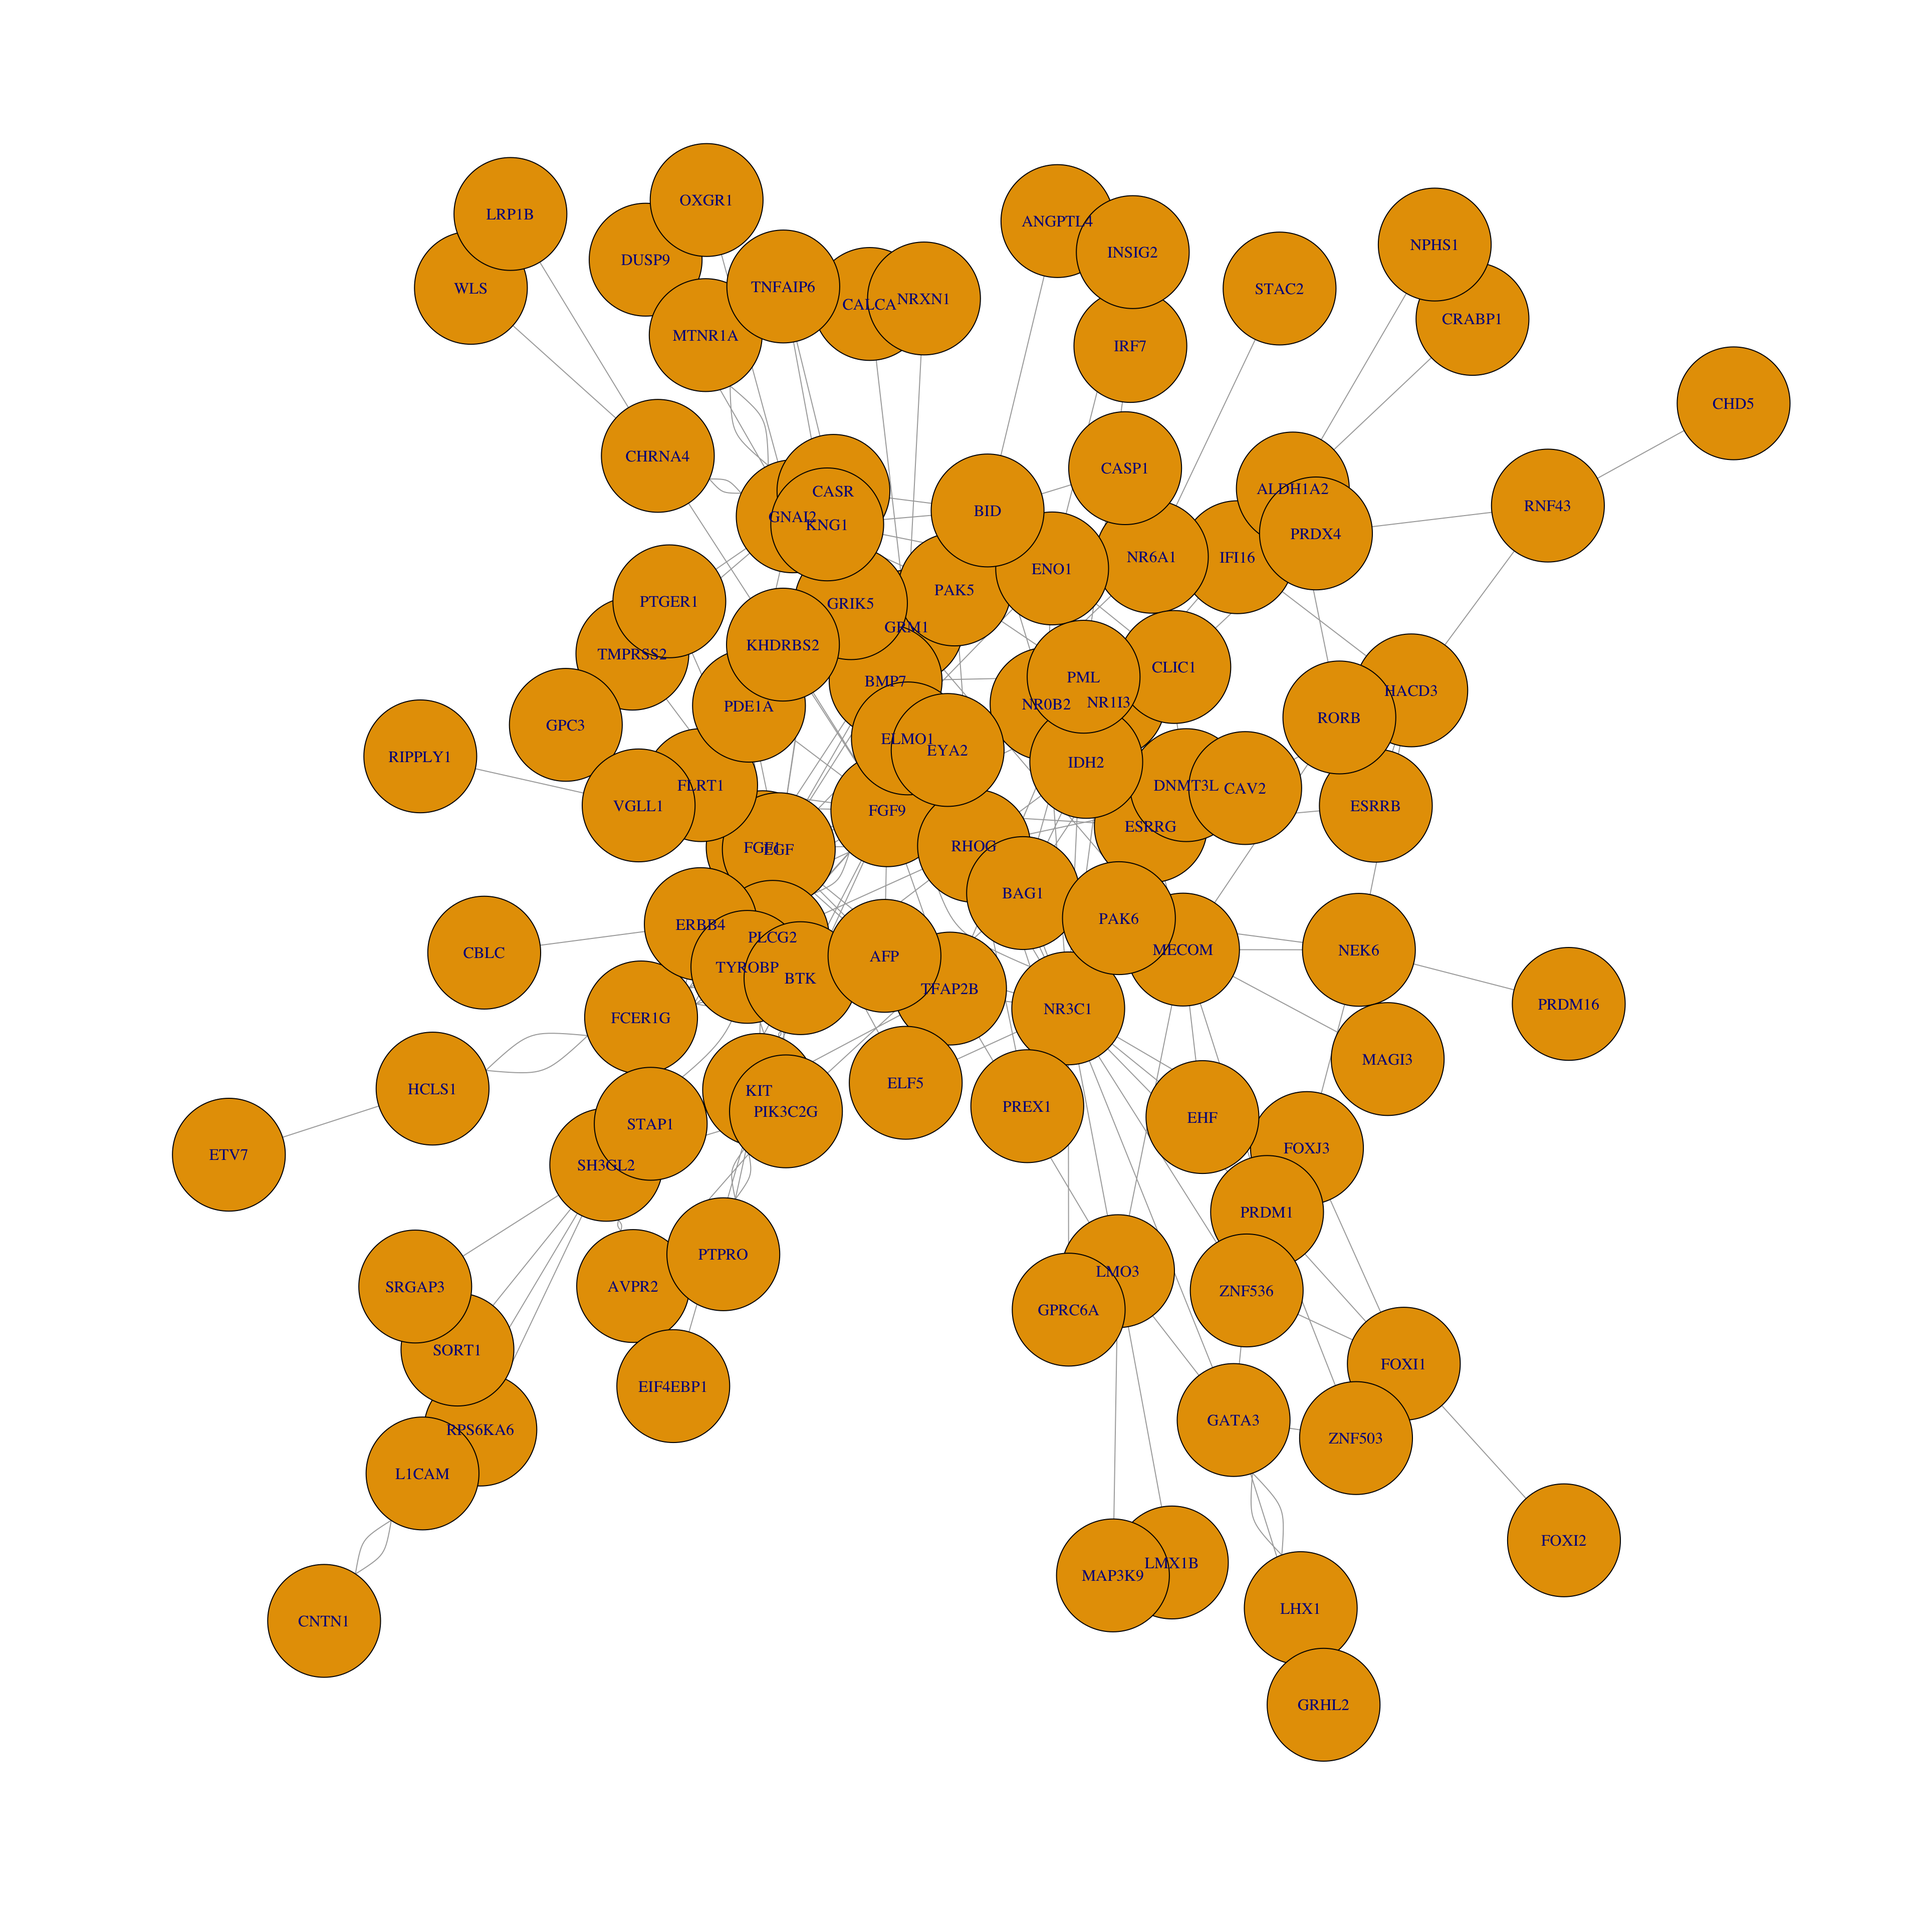
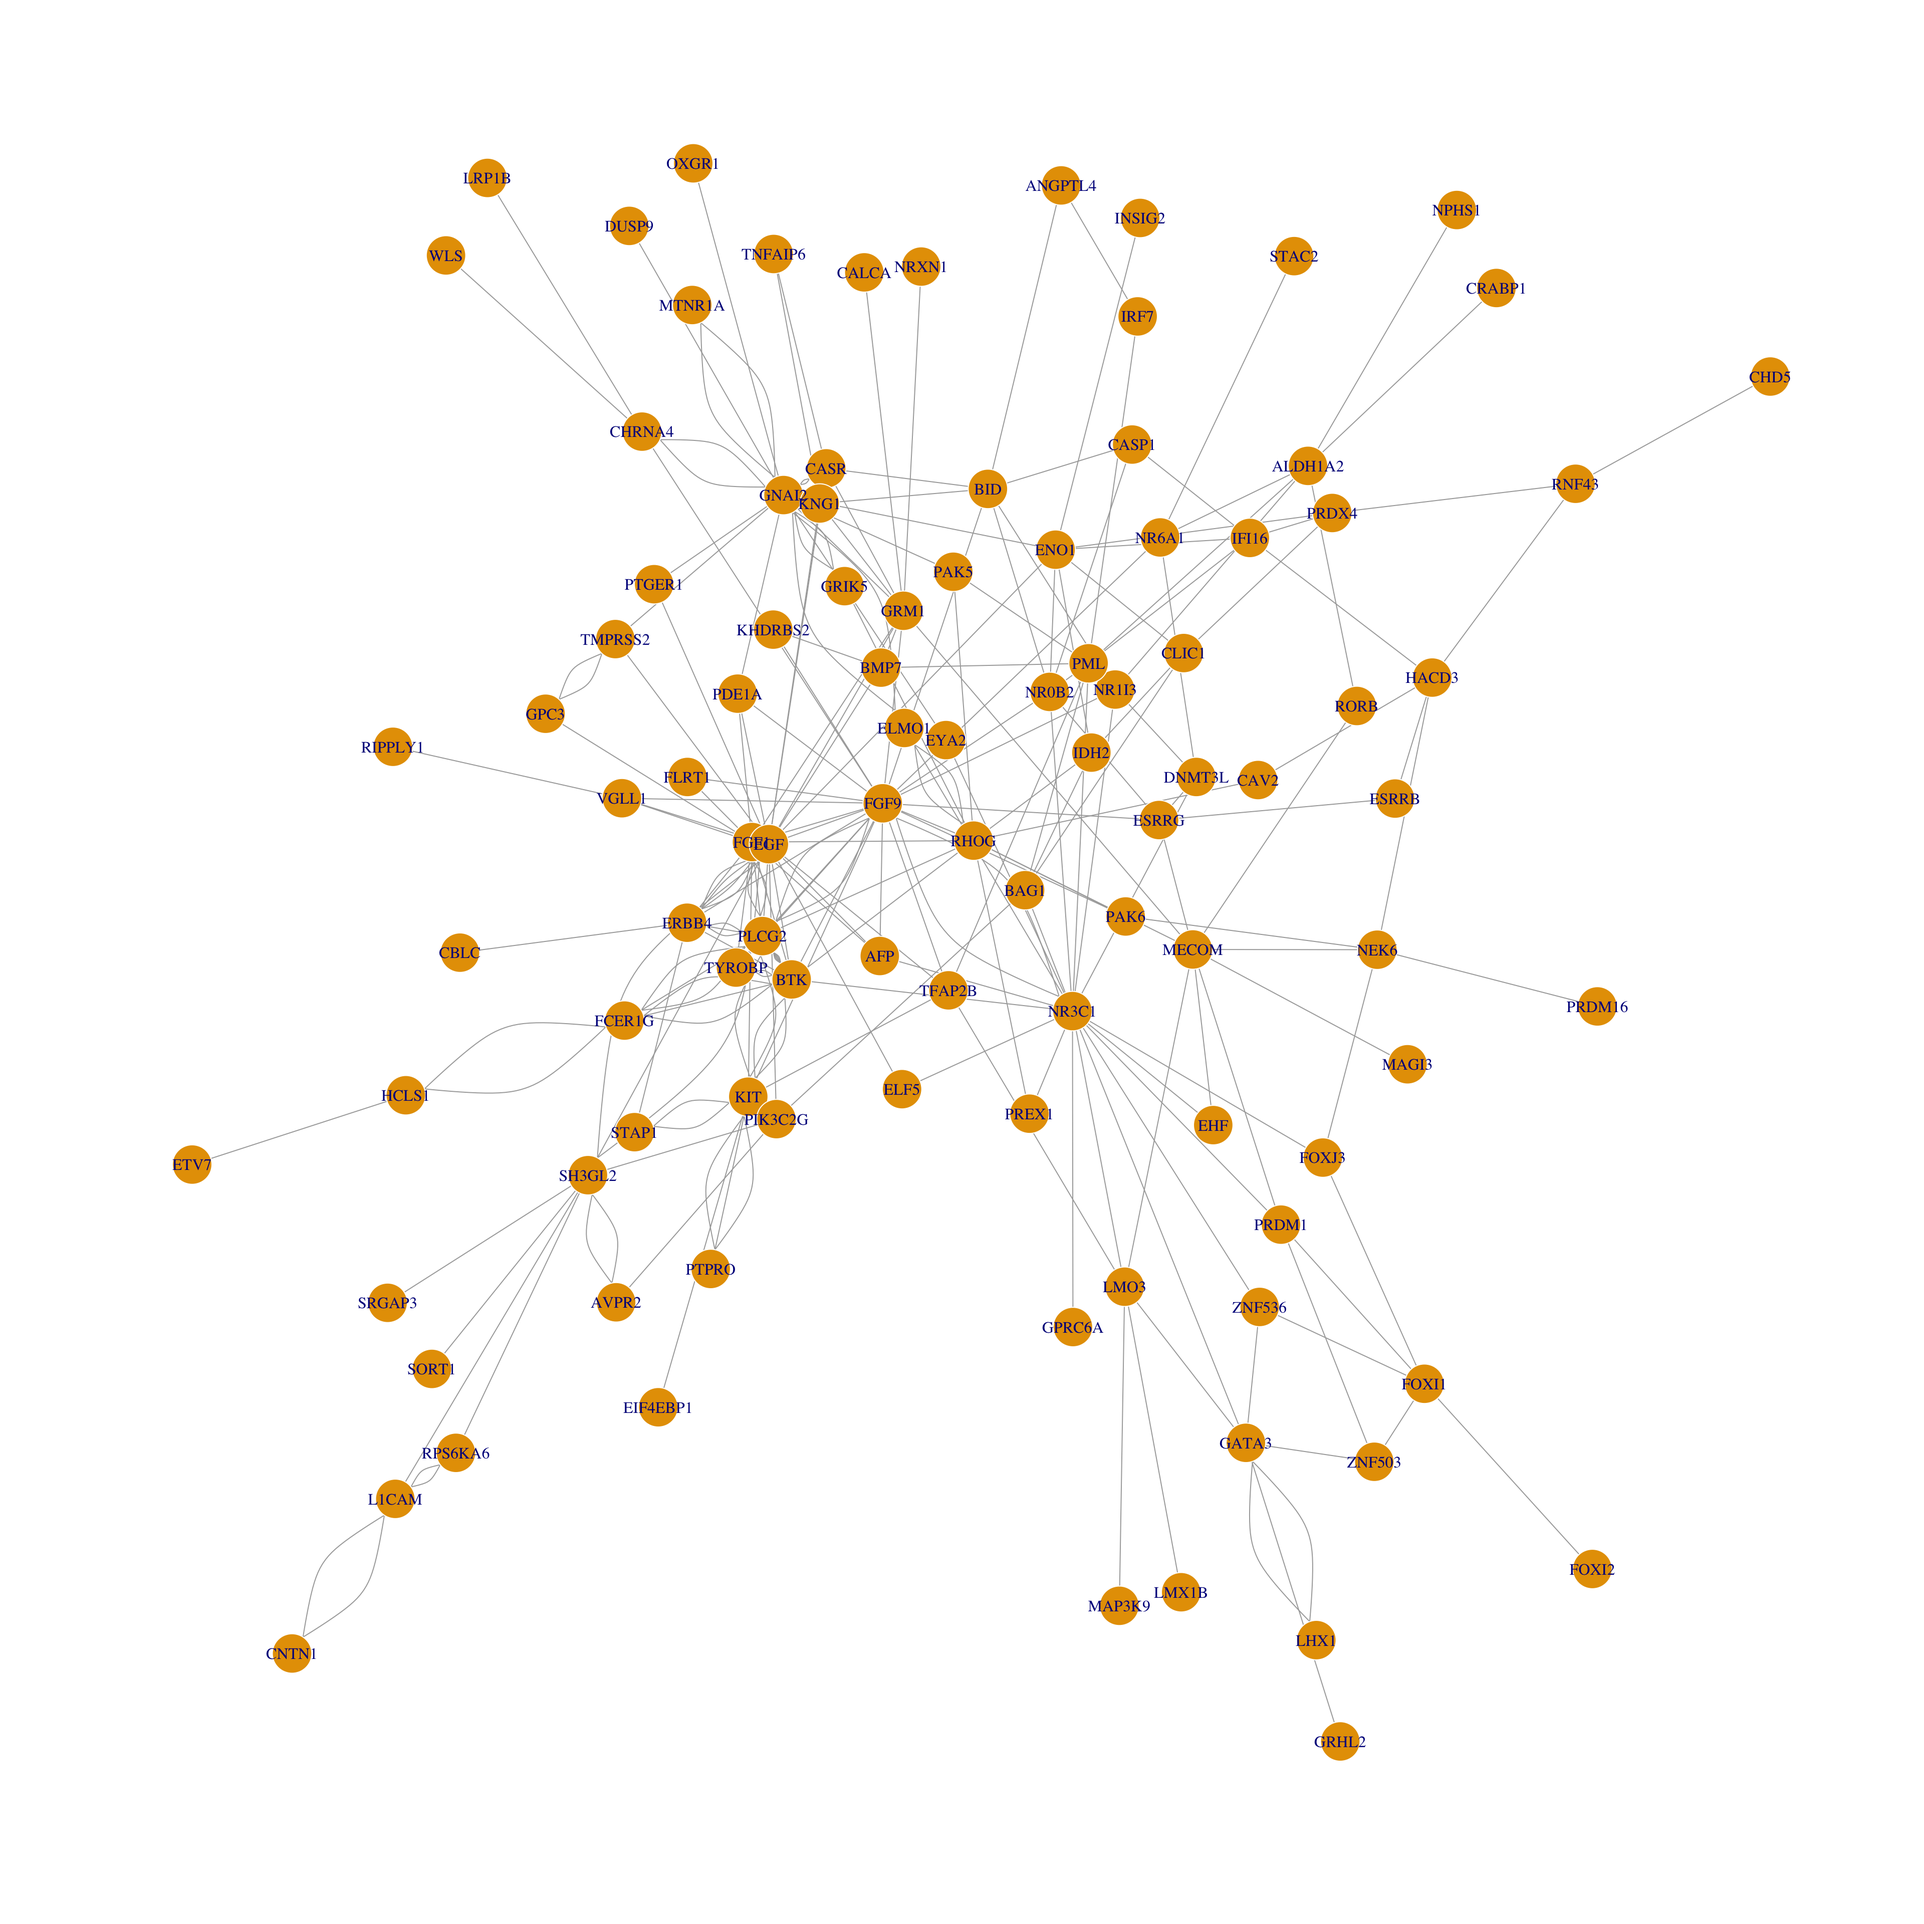
Build site.

diff --git a/docs/TieDIE_2.html b/docs/TieDIE_2.html
@@ -518,15 +518,15 @@ project makes it easier to run your code on other machines.</p>
 <div class="panel panel-default">
 <div class="panel-heading">
 <p class="panel-title">
-<a data-toggle="collapse" data-parent="#workflowr-checks" href="#strongRepositoryversionstrongahrefhttpsgithubcomzhenzuo2PPPtree201930994f3f902bdd88a436f3511332ebaefbb9targetblank2019309a">
+<a data-toggle="collapse" data-parent="#workflowr-checks" href="#strongRepositoryversionstrongahrefhttpsgithubcomzhenzuo2PPPtree039689cb6f5461cc2336ec00569d881a90d96a25targetblank039689ca">
 <span class="glyphicon glyphicon-ok text-success"
 aria-hidden="true"></span> <strong>Repository version:</strong>
-<a href="https://github.com/zhenzuo2/PPP/tree/201930994f3f902bdd88a436f3511332ebaefbb9" target="_blank">2019309</a>
+<a href="https://github.com/zhenzuo2/PPP/tree/039689cb6f5461cc2336ec00569d881a90d96a25" target="_blank">039689c</a>
 </a>
 </p>
 </div>
 <div
[2 lines of base64/hex data omitted]
 class="panel-collapse collapse">
 <div class="panel-body">
 <p>
@@ -536,7 +536,7 @@ reproducibility.
 </p>
 <p>
 The results in this page were generated with repository version
-<a href="https://github.com/zhenzuo2/PPP/tree/201930994f3f902bdd88a436f3511332ebaefbb9" target="_blank">2019309</a>.
+<a href="https://github.com/zhenzuo2/PPP/tree/039689cb6f5461cc2336ec00569d881a90d96a25" target="_blank">039689c</a>.
 See the <em>Past versions</em> tab to see a history of the changes made
 to the R Markdown and HTML files.
 </p>
@@ -2655,6 +2655,40 @@ Message
 Rmd
 </td>
 <td>
+<a href="https://github.com/zhenzuo2/PPP/blob/039689cb6f5461cc2336ec00569d881a90d96a25/analysis/TieDIE_2.Rmd" target="_blank">039689c</a>
+</td>
+<td>
+Zhen Zuo
+</td>
+<td>
+2024-05-28
+</td>
+<td>
+Publish files
+</td>
+</tr>
+<tr>
+<td>
+html
+</td>
+<td>
+<a href="https://rawcdn.githack.com/zhenzuo2/PPP/5135d76461bade5415501dc49b6063c14c220b2e/docs/TieDIE_2.html" target="_blank">5135d76</a>
+</td>
+<td>
+Zhen Zuo
+</td>
+<td>
+2024-05-28
+</td>
+<td>
+Build site.
+</td>
+</tr>
+<tr>
+<td>
+Rmd
+</td>
+<td>
 <a href="https://github.com/zhenzuo2/PPP/blob/201930994f3f902bdd88a436f3511332ebaefbb9/analysis/TieDIE_2.Rmd" target="_blank">2019309</a>
 </td>
 <td>
@@ -2827,7 +2861,7 @@ Attaching package: &#39;igraph&#39;</code></pre>
 <h1>KIRC</h1>
 <pre class="r"><code>sif_data &lt;- read.table(&quot;output/TieDIE/input/kirc/TieDIE/tiedie.cn.sif&quot;, header = FALSE, stringsAsFactors = FALSE)
 sif_graph &lt;- graph_from_data_frame(sif_data[,c(&quot;V1&quot;,&quot;V3&quot;)], directed = FALSE)
-plot(sif_graph, layout = layout_with_fr)</code></pre>
+plot(sif_graph, layout = layout.fruchterman.reingold, vertex.size = 5,vertex.frame.color= &quot;white&quot;)</code></pre>
 <p><img src="figure/TieDIE_2.Rmd/unnamed-chunk-2-1.png" width="1920" style="display: block; margin: auto;" /></p>
 <p>
 <button type="button" class="btn btn-default btn-xs btn-workflowr btn-workflowr-fig" data-toggle="collapse" data-target="#fig-unnamed-chunk-2-1">
@@ -2851,6 +2885,17 @@ Date
 </tr>
 </thead>
 <tbody>
+<tr>
+<td>
+<a href="https://github.com/zhenzuo2/PPP/blob/5135d76461bade5415501dc49b6063c14c220b2e/docs/figure/TieDIE_2.Rmd/unnamed-chunk-2-1.png" target="_blank">5135d76</a>
+</td>
+<td>
+Zhen Zuo
+</td>
+<td>
+2024-05-28
+</td>
+</tr>
 <tr>
 <td>
 <a href="https://github.com/zhenzuo2/PPP/blob/acc1d734591f29c40a5ca19eb749685623656d1e/docs/figure/TieDIE_2.Rmd/unnamed-chunk-2-1.png" target="_blank">acc1d73</a>
@@ -2893,7 +2938,7 @@ Zhen Zuo
 <h1>LUSC</h1>
 <pre class="r"><code>sif_data &lt;- read.table(&quot;output/TieDIE/input/lusc/TieDIE/tiedie.cn.sif&quot;, header = FALSE, stringsAsFactors = FALSE)
 sif_graph &lt;- graph_from_data_frame(sif_data[,c(&quot;V1&quot;,&quot;V3&quot;)], directed = FALSE)
-plot(sif_graph, layout = layout_with_fr)</code></pre>
+plot(sif_graph, layout = layout.fruchterman.reingold, vertex.size = 5,vertex.frame.color= &quot;white&quot;)</code></pre>
 <p><img src="figure/TieDIE_2.Rmd/unnamed-chunk-3-1.png" width="1920" style="display: block; margin: auto;" /></p>
 <p>
 <button type="button" class="btn btn-default btn-xs btn-workflowr btn-workflowr-fig" data-toggle="collapse" data-target="#fig-unnamed-chunk-3-1">
@@ -2917,6 +2962,17 @@ Date
 </tr>
 </thead>
 <tbody>
+<tr>
+<td>
+<a href="https://github.com/zhenzuo2/PPP/blob/5135d76461bade5415501dc49b6063c14c220b2e/docs/figure/TieDIE_2.Rmd/unnamed-chunk-3-1.png" target="_blank">5135d76</a>
+</td>
+<td>
+Zhen Zuo
+</td>
+<td>
+2024-05-28
+</td>
+</tr>
 <tr>
 <td>
 <a href="https://github.com/zhenzuo2/PPP/blob/acc1d734591f29c40a5ca19eb749685623656d1e/docs/figure/TieDIE_2.Rmd/unnamed-chunk-3-1.png" target="_blank">acc1d73</a>
@@ -2959,7 +3015,7 @@ Zhen Zuo
 <h1>LUAD</h1>
 <pre class="r"><code>sif_data &lt;- read.table(&quot;output/TieDIE/input/luad/TieDIE/tiedie.cn.sif&quot;, header = FALSE, stringsAsFactors = FALSE)
 sif_graph &lt;- graph_from_data_frame(sif_data[,c(&quot;V1&quot;,&quot;V3&quot;)], directed = FALSE)
-plot(sif_graph, layout = layout_with_fr)</code></pre>
+plot(sif_graph, layout = layout.fruchterman.reingold, vertex.size = 5,vertex.frame.color= &quot;white&quot;)</code></pre>
 <p><img src="figure/TieDIE_2.Rmd/unnamed-chunk-4-1.png" width="1920" style="display: block; margin: auto;" /></p>
 <p>
 <button type="button" class="btn btn-default btn-xs btn-workflowr btn-workflowr-fig" data-toggle="collapse" data-target="#fig-unnamed-chunk-4-1">
@@ -2983,6 +3039,17 @@ Date
 </tr>
 </thead>
 <tbody>
+<tr>
+<td>
+<a href="https://github.com/zhenzuo2/PPP/blob/5135d76461bade5415501dc49b6063c14c220b2e/docs/figure/TieDIE_2.Rmd/unnamed-chunk-4-1.png" target="_blank">5135d76</a>
+</td>
+<td>
+Zhen Zuo
+</td>
+<td>
+2024-05-28
+</td>
+</tr>
 <tr>
 <td>
 <a href="https://github.com/zhenzuo2/PPP/blob/acc1d734591f29c40a5ca19eb749685623656d1e/docs/figure/TieDIE_2.Rmd/unnamed-chunk-4-1.png" target="_blank">acc1d73</a>
@@ -3025,7 +3092,7 @@ Zhen Zuo
 <h1>PAAD</h1>
 <pre class="r"><code>sif_data &lt;- read.table(&quot;output/TieDIE/input/paad/TieDIE/tiedie.cn.sif&quot;, header = FALSE, stringsAsFactors = FALSE)
 sif_graph &lt;- graph_from_data_frame(sif_data[,c(&quot;V1&quot;,&quot;V3&quot;)], directed = FALSE)
-plot(sif_graph, layout = layout_with_fr)</code></pre>
+plot(sif_graph, layout = layout.fruchterman.reingold, vertex.size = 5,vertex.frame.color= &quot;white&quot;)</code></pre>
 <p><img src="figure/TieDIE_2.Rmd/unnamed-chunk-5-1.png" width="1920" style="display: block; margin: auto;" /></p>
 <p>
 <button type="button" class="btn btn-default btn-xs btn-workflowr btn-workflowr-fig" data-toggle="collapse" data-target="#fig-unnamed-chunk-5-1">
@@ -3049,6 +3116,17 @@ Date
 </tr>
 </thead>
 <tbody>
+<tr>
+<td>
+<a href="https://github.com/zhenzuo2/PPP/blob/5135d76461bade5415501dc49b6063c14c220b2e/docs/figure/TieDIE_2.Rmd/unnamed-chunk-5-1.png" target="_blank">5135d76</a>
+</td>
+<td>
+Zhen Zuo
+</td>
+<td>
+2024-05-28
+</td>
+</tr>
 <tr>
 <td>
 <a href="https://github.com/zhenzuo2/PPP/blob/acc1d734591f29c40a5ca19eb749685623656d1e/docs/figure/TieDIE_2.Rmd/unnamed-chunk-5-1.png" target="_blank">acc1d73</a>
